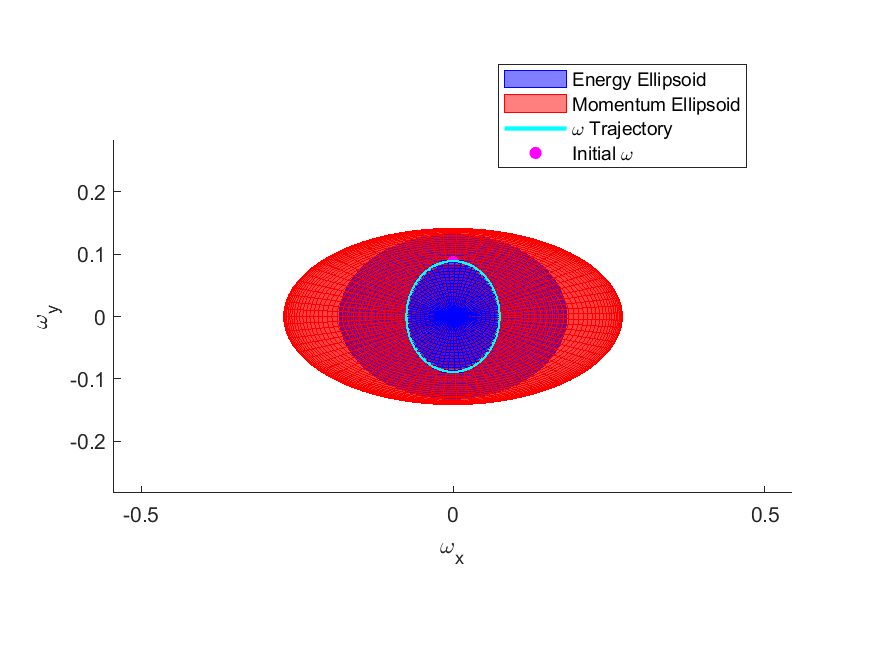
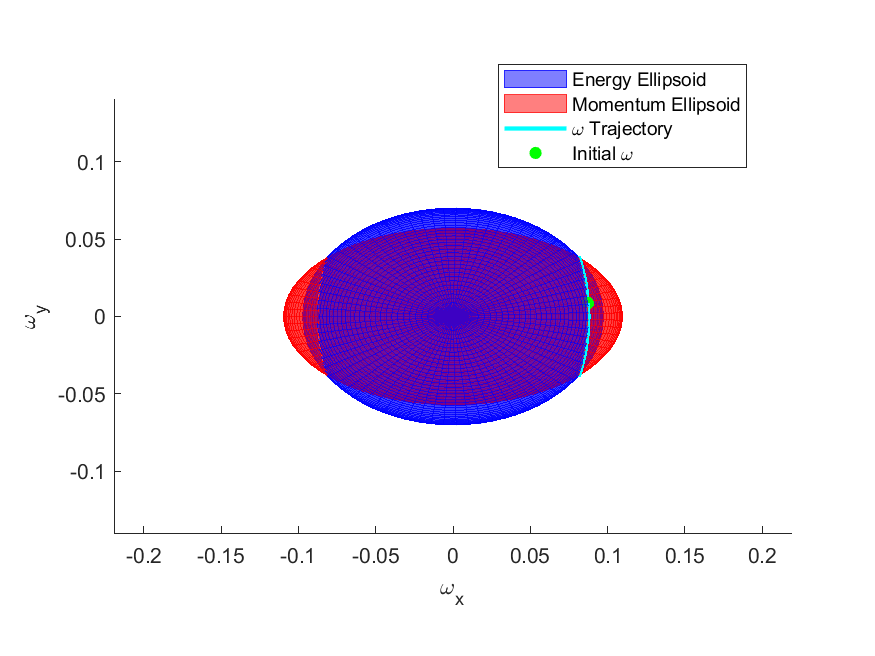
ellipsoid plot views

diff --git a/Simulation_and_Propagation/Energy_Momentum_Ellipsoids.m b/Simulation_and_Propagation/Energy_Momentum_Ellipsoids.m
@@ -7,10 +7,13 @@ save_plots = true;
 
 %% Initial Conditions
 
-% w_init = [ 0, deg2rad(5), deg2rad(0.0001)]'; % PA frame
-w_init = [ 0, deg2rad(5), deg2rad(5)]'; % PA frame
+% w_init = [ 0, deg2rad(5), deg2rad(0.0001)]'; % Hyperbola in XZ frame
+% w_init = [ 0, deg2rad(5), deg2rad(5)]'; % ellipse in XY plane
+ w_init = [ deg2rad(5), deg2rad(0.5), deg2rad(1.5)]'; % ellipse in YZ plane
 
 M = [0,0,0];
+
+tspan = [0 180*5]; % seconds
 
 %% Energy Ellipsoid
 
@@ -31,7 +34,6 @@ c_m = L / I_p(3,3);
 
 %% Get w trajectory
 
-tspan = [0 60*5]; % seconds
 options = odeset('RelTol', 1e-6, 'AbsTol', 1e-9);
 [t, w_prop] = ode113(@(t,w) PropagateAttitude(w, M, I_p), tspan, w_init, options);
 
@@ -43,15 +45,15 @@ hold on
 
 % energy ellipsoid
 [X_e, Y_e, Z_e] = ellipsoid(0,0,0, a_e, b_e, c_e, 75);
-surf(X_e, Y_e, Z_e, 'FaceColor', 'b', 'FaceAlpha', 0.5, 'EdgeColor', 'b')
+surf(X_e, Y_e, Z_e, 'FaceColor', 'b', 'FaceAlpha', 0.5, 'EdgeColor', 'b', 'EdgeAlpha', '0.75')
 
 % momentum ellipsoid
 [X_m, Y_m, Z_m] = ellipsoid(0,0,0, a_m, b_m, c_m, 75);
-surf(X_m, Y_m, Z_m, 'FaceColor', 'r', 'FaceAlpha', 0.5, 'EdgeColor', 'r')
+surf(X_m, Y_m, Z_m, 'FaceColor', 'r', 'FaceAlpha', 0.5, 'EdgeColor', 'r', 'EdgeAlpha', '0.75')
 
 % w trajectory
 plot3(w_prop(:,1), w_prop(:,2), w_prop(:,3), 'cyan', 'LineWidth', 2)
-plot3(w_prop(1,1), w_prop(1,2), w_prop(1,3), 'Marker', '.', 'MarkerSize', 20, 'Color', 'magenta', 'LineStyle', 'none')
+plot3(w_prop(1,1), w_prop(1,2), w_prop(1,3), 'Marker', '.', 'MarkerSize', 20, 'Color', 'green', 'LineStyle', 'none')
 
 legend("Energy Ellipsoid", "Momentum Ellipsoid", '\omega Trajectory', 'Initial \omega', 'Location', 'best')
 
